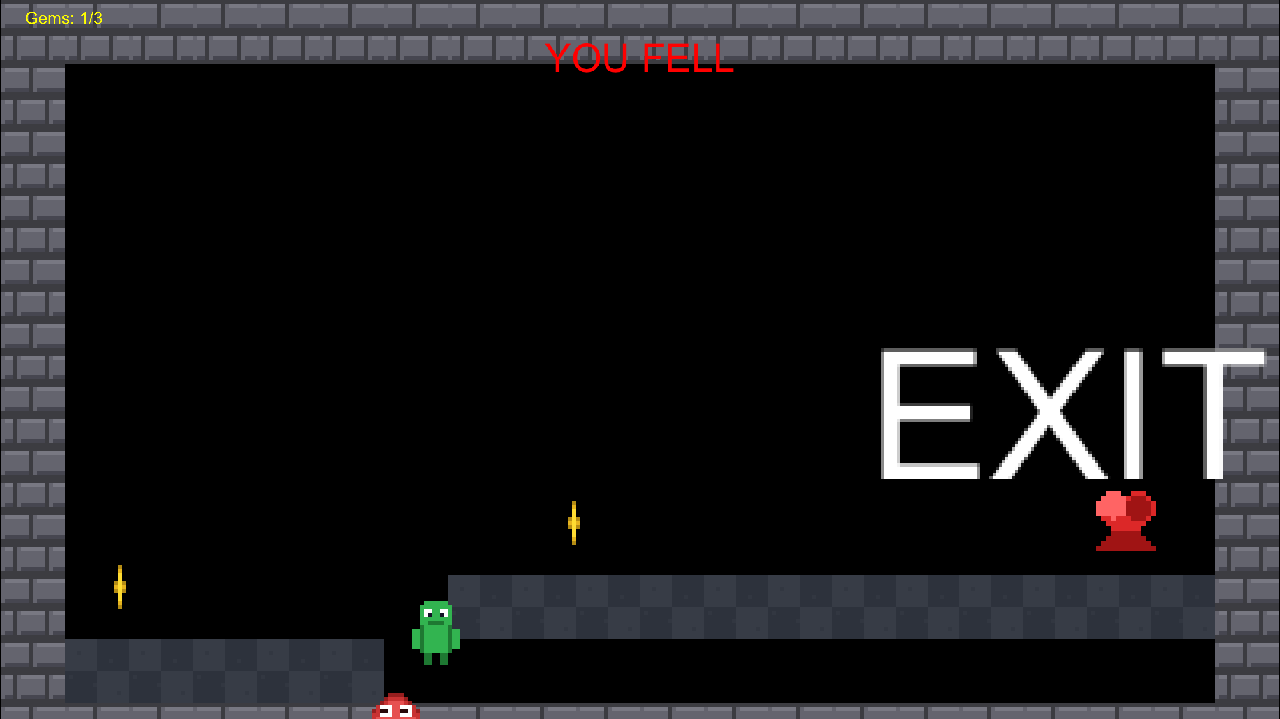
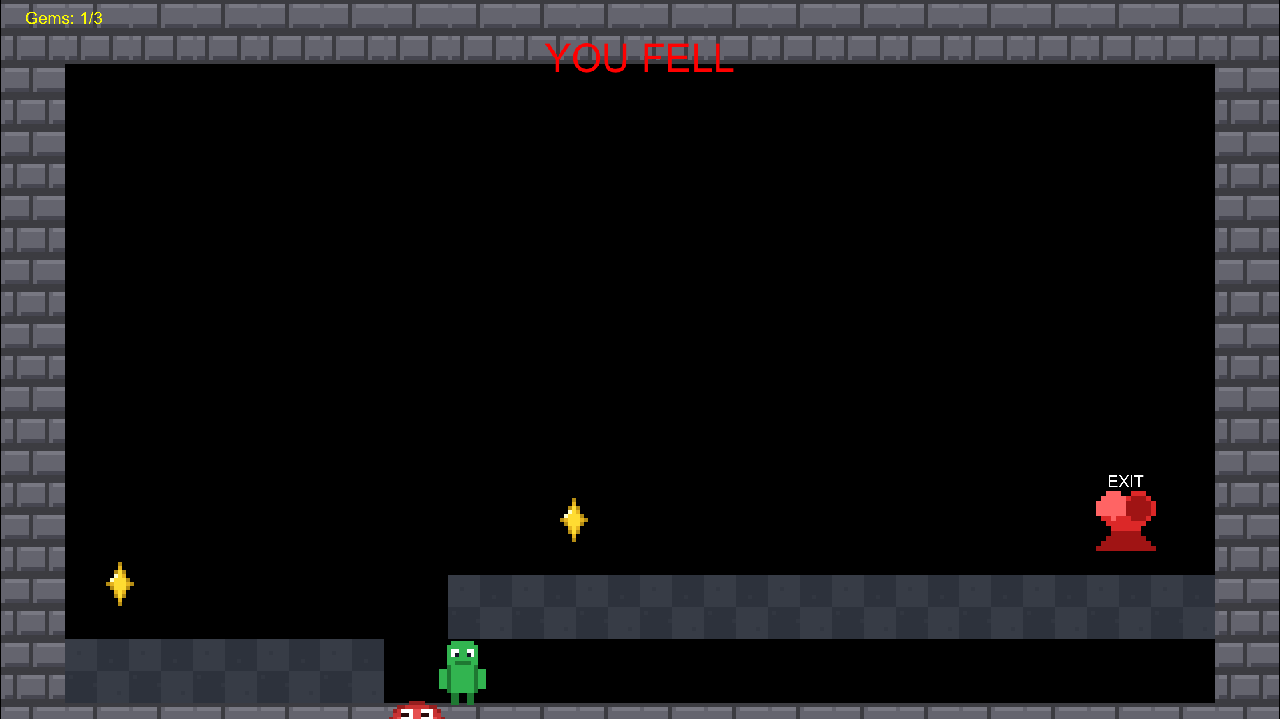
fix(techdemo): small EXIT caption and YOU FELL in the pit
World text honors transform.scale so EXIT can sit on the heart. Pit fail waits until y 10.50.

diff --git a/Examples/TechDemo/Scenes/GameScene.cpp b/Examples/TechDemo/Scenes/GameScene.cpp
@@ -235,11 +235,12 @@ void GameScene::spawnExit()
     sprite.setLayer(Comp::Layer::Player);
 
     auto label = m_entityManager->addEntity({"exit", "exit_label"});
-    auto& lt = label->addComponent<Comp::Transform>(glm::vec2(16.7f, 7.50f));
+    auto& lt = label->addComponent<Comp::Transform>(glm::vec2(17.6f, 7.62f));
     lt.pivot = Sprout::Pivot::CENTER;
+    lt.scale = glm::vec3(0.18f, 0.18f, 1.0f);
     label->addComponent<Comp::Text>(
         "EXIT",
-        "game_font", 2, Color::White,
+        "game_font", 1, Color::White,
         Sprout::TextJustify::CENTER
     );
 }

diff --git a/src/Core/Scene.cpp b/src/Core/Scene.cpp
@@ -170,6 +170,7 @@ void Scene::sRender(EntityList& entities)
                     pos = glm::vec2(cTransform.position) + cText.transformOffset;
                     pivot = cTransform.pivot;
                     worldSpace = !cTransform.screenSpace;
+                    scale *= cTransform.scale.x;
                 }
 
                 m_engine.getWindow().draw_text(cText.text, AssetManager::getFont(cText.font), pos, depth, cText.color, scale, pivot, worldSpace, cText.justify);

diff --git a/Examples/TechDemo/Scenes/GameScene.hpp b/Examples/TechDemo/Scenes/GameScene.hpp
@@ -26,7 +26,7 @@ private:
     static constexpr float TILE_SIZE = 1.0f;
     static constexpr float ARENA_W = 20.0f;
     static constexpr float ARENA_H = 11.25f;
-    static constexpr float PIT_Y = 9.90f;
+    static constexpr float PIT_Y = 10.50f;
 
     System::ArenaBounds m_bounds;
     int m_gemsCollected = 0;

diff --git a/.cursor/skills/verify-sapling/features/u5-stack.md b/.cursor/skills/verify-sapling/features/u5-stack.md
@@ -1,23 +1,22 @@
 # Presentable (stacked on U4)
 
-Title names 3 gems then the heart. In-game HUD is Gems n/3. YOU FELL already lives on feat/u4-goal. World EXIT uses game_font at the heart. No HUD sticker.
+Title names 3 gems then the heart. In-game HUD is Gems n/3. YOU FELL already lives on feat/u4-goal. World EXIT is a small caption on the heart (transform.scale 0.18, font size 1). Not a billboard.
 
-Linux GLCORE: sapling-ctl holds must persist. Unfocused X11 KEY_UP used to wipe injectKey; Input now tracks m_injectedKeys and ignores those KEY_UPs.
+Linux GLCORE: sapling-ctl holds persist via m_injectedKeys.
 
 ## Layout
 
 - Spawn (3.4, 9.625). Gems: start 4.6, mid 9.0, skippable left 1.90.
-- Platforms: (1,5,10), (7,11,9), (12,18,9). Same-height mid/far; a 1-tile drop tunneled through the floor.
-- Heart (17.6, 8.15). EXIT label (16.7, 7.50) size 2.
-- Slime in the first pit (6.50, 11.15), EnemyAIBounds keep it in the hole. Not on the spawn tile.
+- Platforms: (1,5,10), (7,11,9), (12,18,9).
+- Heart (17.6, 8.15). EXIT label (17.6, 7.62).
+- Slime in the first pit (6.50, 11.15).
+- Pit fail at y > 10.50 so the YOU FELL beat shows the player in the hole, then snap to spawn.
 
 ## Driving (Linux, named actions)
 
 - Doctor, launch, ping, confirm.
-- `moveRight down` ~0.20s: player x changes (3.4 → ~5.56).
-- Longer hold off the start ledge: YOU FELL, then retry at 3.4.
-- Jump start → mid (D 0.25, jump 0.55): Gems 2/3 if the left gem was skipped.
-- Walk D on the long ledge into the heart: Need 3 gems, scene still game.
+- Walk off the start ledge, wait until y > 10.50: YOU FELL, then retry at 3.4 Gems 0/3.
+- Jump start → mid: Gems 2/3 if the left gem was skipped. Walk into the heart: Need 3 gems.
 - Collect 1.90 first, same jump, walk heart: scene score, YOU WON.
 
 Evidence: `.cursor/skills/verify-sapling/evidence/u5-stack/`
